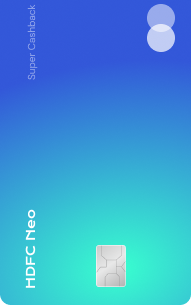
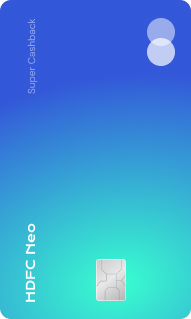
feat: layout screen and horizontal assets cards

diff --git a/lib/main.dart b/lib/main.dart
@@ -1,6 +1,7 @@
 import 'dart:math';
 
 import 'package:flutter/material.dart';
+import 'package:ticket_bank_machine/checkout_screen.dart';
 import 'package:ticket_bank_machine/widgets/scrollable_card_stack.dart';
 import 'package:ticket_bank_machine/widgets/card_credit_ticket.dart';
 
@@ -13,54 +14,77 @@ class MyApp extends StatelessWidget {
   Widget build(BuildContext context) {
     return MaterialApp(
       title: 'Ticket bank machine',
-      home: Scaffold(
-        backgroundColor: Colors.white,
-        appBar: AppBar(
-          title: Text(
-            'Payments',
-            style: Theme.of(context).textTheme.bodyMedium,
-          ),
-          backgroundColor: Colors.transparent,
-          forceMaterialTransparency: true,
-          centerTitle: false,
-          leading: GestureDetector(
-            child: Image(
-              image: AssetImage('assets/back-icon.png'),
-            ),
+      home: _HomeScreen(),
+    );
+  }
+}
+
+class _HomeScreen extends StatelessWidget {
+  const _HomeScreen({
+    super.key,
+  });
+
+  @override
+  Widget build(BuildContext context) {
+    return Scaffold(
+      backgroundColor: Colors.white,
+      appBar: AppBar(
+        title: Text(
+          'Payments',
+          style: Theme.of(context).textTheme.bodyMedium,
+        ),
+        backgroundColor: Colors.transparent,
+        forceMaterialTransparency: true,
+        centerTitle: false,
+        leading: GestureDetector(
+          child: Image(
+            image: AssetImage('assets/back-icon.png'),
           ),
         ),
-        body: Expanded(
-          child: Column(
-            children: [
-              const Expanded(
-                flex: 1,
-                child: DetailsDashboard(),
-              ),
-              SizedBox(
-                height: MediaQuery.sizeOf(context).height * 0.05,
-              ),
-              Expanded(
-                flex: 2,
-                child: PerspectiveListView(
-                  visualizedItems: 4,
-                  itemExtent: MediaQuery.sizeOf(context).height * .48,
-                  initialIndex: 7,
-                  backItemsShadowColor:
-                      Theme.of(context).scaffoldBackgroundColor,
-                  padding: const EdgeInsets.symmetric(horizontal: 25),
-                  onTapFrontItem: (value) {
-                    
+      ),
+      body: Expanded(
+        child: Column(
+          children: [
+            const Expanded(
+              flex: 1,
+              child: DetailsDashboard(),
+            ),
+            SizedBox(
+              height: MediaQuery.sizeOf(context).height * 0.05,
+            ),
+            Expanded(
+              flex: 2,
+              child: PerspectiveListView(
+                visualizedItems: 4,
+                itemExtent: MediaQuery.sizeOf(context).height * .48,
+                initialIndex: 7,
+                backItemsShadowColor:
+                    Theme.of(context).scaffoldBackgroundColor,
+                padding: const EdgeInsets.symmetric(horizontal: 25),
+                onTapFrontItem: (currentIndex) {
+                  Navigator.push(
+                    context,
+                    PageRouteBuilder(
+                      pageBuilder: (context, animation, secondaryAnimation) => CheckoutScreen(index: currentIndex ?? 0,),
+                      transitionsBuilder:
+                          (context, animation, secondaryAnimation, child) {
+                        return FadeTransition(
+                          opacity: animation,
+                          child: child,
+                        );
+                      },
+                    ),
+                  );
+                },
+                children: List.generate(
+                  20,
+                  (index) {
+                    return CardCreditTicket(index: index);
                   },
-                  children: List.generate(
-                    20,
-                    (index) {
-                      return CardCreditTicket(index: index);
-                    },
-                  ),
                 ),
               ),
-            ],
-          ),
+            ),
+          ],
         ),
       ),
     );

diff --git a/lib/checkout_screen.dart b/lib/checkout_screen.dart
@@ -1,0 +1,112 @@
+import 'package:flutter/material.dart';
+
+class CheckoutScreen extends StatelessWidget {
+  const CheckoutScreen({super.key, required this.index,});
+
+  final int index;
+
+  @override
+  Widget build(BuildContext context) {
+    return Scaffold(
+        appBar: AppBar(
+          backgroundColor: Colors.white,
+          forceMaterialTransparency: true,
+        ),
+        backgroundColor: Colors.white,
+        body: Padding(
+          padding: const EdgeInsets.symmetric(horizontal: 40.0),
+          child: Column(
+            children: [
+              Container(
+                width: double.maxFinite,
+                padding: EdgeInsets.all(8.0),
+                decoration: BoxDecoration(
+                    border: Border.all(color: Colors.grey.shade400, width: 1.0),
+                    borderRadius:
+                        const BorderRadius.all(Radius.circular(12.0))),
+                child: Column(
+                  mainAxisAlignment: MainAxisAlignment.spaceBetween,
+                  children: [
+                    Image.asset("assets/credit-card-h-${index % 4}.png"),
+                    const SizedBox(height: 12.0,),
+                    Container(
+                      padding: EdgeInsets.symmetric(vertical: 8.0),
+                      child: Row(
+                        mainAxisAlignment: MainAxisAlignment.spaceBetween,
+                        children: [
+                          Text('Enter a CVV Number'),
+                          Container(
+                            decoration: BoxDecoration(
+                              borderRadius: BorderRadius.all(
+                                Radius.circular(6.0),
+                              ),
+                              color: Colors.grey[200],
+                            ),
+                            width: 120,
+                            height: 32,
+                          )
+                        ],
+                      ),
+                    ),
+                  ],
+                ),
+              ),
+              const SizedBox(height: 24,),
+              Expanded(
+                child: _numericKeyPad(),
+              ),
+            ],
+          ),
+        ));
+  }
+
+  Widget _numericKeyPad() {
+    return Container(
+      color: Colors.white,
+      child: GridView.builder(
+        itemCount: 11,
+        gridDelegate: const SliverGridDelegateWithFixedCrossAxisCount(
+          crossAxisCount: 3,
+          mainAxisSpacing: 15.0,
+          crossAxisSpacing: 40.0,
+        ),
+        itemBuilder: (context, index) {
+          if (index == 9) {
+            return SizedBox.shrink();
+          } else if (index == 10) {
+            return InkWell(
+              child: CircleAvatar(
+                radius: 30,
+                backgroundColor: Colors.grey.shade300,
+                child: Text(
+                  '0',
+                  style: TextStyle(
+                    fontSize: 34,
+                    fontWeight: FontWeight.bold,
+                    color: Colors.black,
+                  ),
+                ),
+              ),
+            );
+          } else {
+            // Botones del 1 al 9
+            return InkWell(
+              child: CircleAvatar(
+                radius: 30,
+                backgroundColor: Colors.grey.shade300,
+                child: Text(
+                  '${index + 1}',
+                  style: TextStyle(
+                    fontSize: 34,
+                    fontWeight: FontWeight.bold,
+                    color: Colors.black,
+                  ),
+                ),
+              ),
+            );
+          }
+        },
+      ),
+    );
+  }
+}
